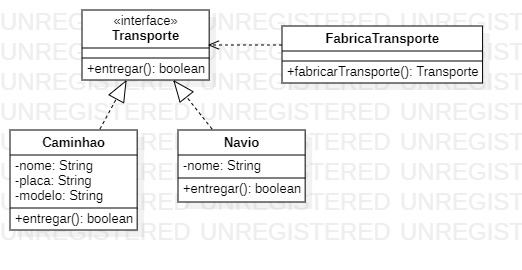
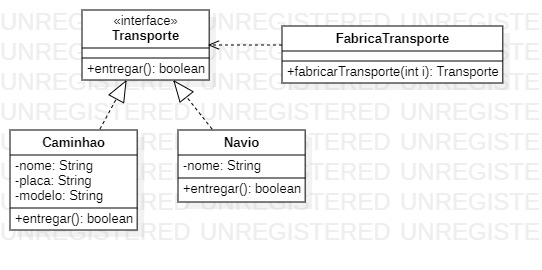
Adding Fabric Method

diff --git a/Creational Patterns/Factory/Factory/src/factory/FabricaTransporte.java b/Creational Patterns/Factory/Factory/src/factory/FabricaTransporte.java
@@ -1,0 +1,15 @@
+package factory;
+
+import transporte.Caminhao;
+import transporte.Navio;
+import transporte.Transporte;
+
+public class FabricaTransporte {
+
+    public Transporte fabricarTransporte(int i){
+        if(i == 1) return new Caminhao();
+        if(i == 2) return new Navio();
+        return null;
+    }
+
+}
